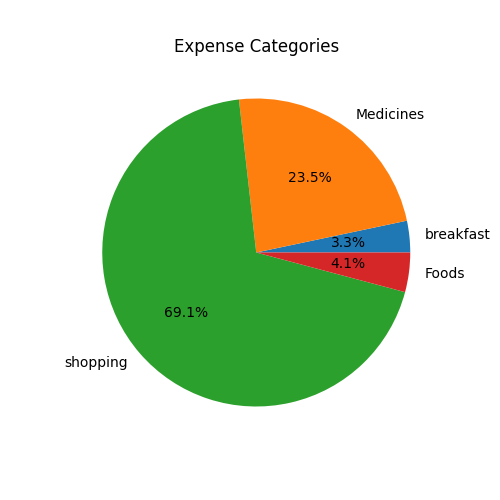
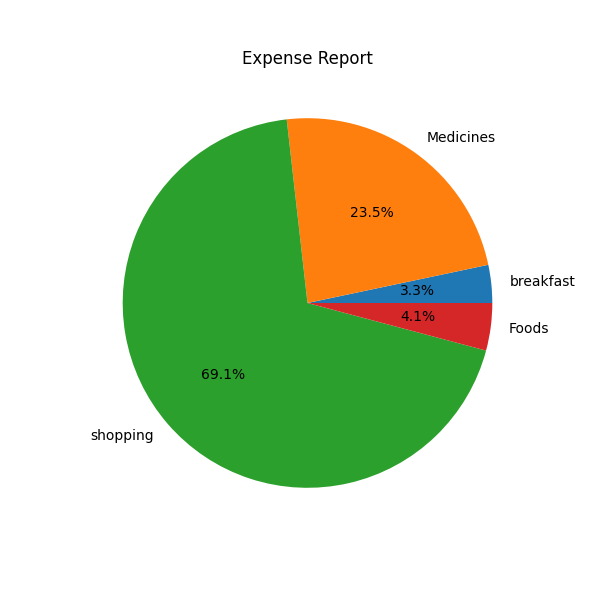
Fixed reports and export routes

diff --git a/templates/navbar.html b/templates/navbar.html
@@ -1,10 +1,51 @@
-<nav class="navbar navbar-expand-lg navbar-dark bg-dark">
+<nav class="navbar navbar-expand-lg navbar-dark bg-dark p-3">
 
     <div class="container-fluid">
 
         <a class="navbar-brand" href="/">
             Expense Tracker
         </a>
+
+        <form
+        class="d-flex flex-wrap gap-2"
+        action="{{ request.path }}"
+        method="GET"
+        >
+
+            <input
+            type="date"
+            name="date"
+            class="form-control"
+            >
+
+            <input
+            type="number"
+            name="month"
+            placeholder="Month"
+            class="form-control"
+            min="1"
+            max="12"
+            >
+
+            <input
+            type="number"
+            name="year"
+            placeholder="Year"
+            class="form-control"
+            >
+
+            <input
+            type="text"
+            name="category"
+            placeholder="Category"
+            class="form-control"
+            >
+
+            <button class="btn btn-light">
+                Filter
+            </button>
+
+        </form>
 
         <div>
 

diff --git a/templates/dashboard.html b/templates/dashboard.html
@@ -4,6 +4,48 @@
 
 <h1 class="mb-4">Expense Tracker</h1>
 
+<div class="row mb-4">
+
+    <div class="col-md-4">
+
+        <div class="card bg-primary text-white p-3">
+
+            <h4>Total Expenses</h4>
+
+            <h2>₹ {{ total }}</h2>
+
+        </div>
+
+    </div>
+
+    <div class="col-md-4">
+
+        <div class="card bg-success text-white p-3">
+
+            <h4>Total Transactions</h4>
+
+            <h2>{{ expenses|length }}</h2>
+
+        </div>
+
+    </div>
+
+    <div class="col-md-4">
+
+        <div class="card bg-danger text-white p-3">
+
+            <h4>Highest Expense</h4>
+
+            <h2>
+                ₹ {{ expenses|map(attribute='amount')|max }}
+            </h2>
+
+        </div>
+
+    </div>
+
+</div>
+
 <div class="card p-3 mb-4">
 
     <h3>Total Expense: ₹ {{ total }}</h3>
@@ -15,7 +57,7 @@
     <div class="mb-3">
 
         <input
-        type="text"
+        type="date"
         name="date"
         placeholder="Date"
         class="form-control"

diff --git a/static/dashboard.css b/static/dashboard.css
@@ -3,13 +3,9 @@ body {
     font-family: Arial, sans-serif;
 }
 
-/* Navbar */
-
 .navbar {
     box-shadow: 0px 2px 10px rgba(0,0,0,0.2);
 }
-
-/* Cards */
 
 .card {
     border: none;
@@ -17,41 +13,29 @@ body {
     box-shadow: 0px 4px 10px rgba(0,0,0,0.1);
 }
 
-/* Table */
-
 .table {
     background-color: white;
     border-radius: 10px;
     overflow: hidden;
 }
 
-/* Buttons */
-
 .btn {
     border-radius: 8px;
 }
-
-/* Form Inputs */
 
 .form-control {
     border-radius: 8px;
 }
 
-/* Headings */
-
 h1, h2, h3, h4 {
     font-weight: bold;
 }
-
-/* Dashboard Cards */
 
 .bg-primary,
 .bg-success,
 .bg-danger {
     border-radius: 15px;
 }
-
-/* Image */
 
 img {
     border-radius: 10px;

diff --git a/templates/base.html b/templates/base.html
@@ -14,7 +14,12 @@
     rel="stylesheet"
     href="{{ url_for('static', filename='dashboard.css') }}"
     >
-
+    
+    <link
+    rel="stylesheet"
+    href="{{ url_for('static', filename='dashboard.css') }}"
+    >
+    
 </head>
 
 <body>

diff --git a/templates/update_expense.html b/templates/update_expense.html
@@ -9,7 +9,7 @@
     <div class="mb-3">
 
         <input
-        type="text"
+        type="date"
         name="date"
         value="{{ expense.expense_date }}"
         class="form-control"

diff --git a/app.py b/app.py
@@ -129,11 +129,35 @@ def update_expense(id):
 
 
 # ================= REPORTS =================
-
 @app.route('/reports')
 def reports():
 
-    cursor.execute("SELECT category, amount FROM Expenses")
+    date = request.args.get('date')
+    month = request.args.get('month')
+    year = request.args.get('year')
+    category = request.args.get('category')
+
+    query = "SELECT category, amount FROM Expenses WHERE 1=1"
+
+    params = []
+
+    if date:
+        query += " AND expense_date = ?"
+        params.append(date)
+
+    if month:
+        query += " AND MONTH(expense_date) = ?"
+        params.append(int(month))
+
+    if year:
+        query += " AND YEAR(expense_date) = ?"
+        params.append(int(year))
+
+    if category:
+        query += " AND category LIKE ?"
+        params.append(f'%{category}%')
+
+    cursor.execute(query, params)
 
     expenses = cursor.fetchall()
 
@@ -141,26 +165,32 @@ def reports():
 
     for expense in expenses:
 
-        category = expense.category
-        amount = expense.amount
-
-        if category in categories:
-            categories[category] += amount
+        if expense.category in categories:
+            categories[expense.category] += expense.amount
         else:
-            categories[category] = amount
+            categories[expense.category] = expense.amount
 
     labels = list(categories.keys())
     amounts = list(categories.values())
 
-    plt.figure(figsize=(5,5))
+    plt.figure(figsize=(6,6))
 
-    plt.pie(amounts, labels=labels, autopct='%1.1f%%')
+    if amounts:
+        plt.pie(amounts, labels=labels, autopct='%1.1f%%')
 
-    plt.title("Expense Categories")
+    plt.title("Expense Report")
 
     plt.savefig('static/chart.png')
 
-    return render_template('reports.html')
+    return render_template(
+        'reports.html',
+        filters={
+            'date': date,
+            'month': month,
+            'year': year,
+            'category': category
+        }
+    )
 
 # ================= SEARCH =================
 
@@ -176,7 +206,6 @@ def search():
     """
 
     search_value = 'f'
-
 # ================= EXPORT CSV =================
 
 @app.route('/export')
@@ -191,6 +220,51 @@ def export_csv():
     df.to_csv(path, index=False)
 
     return send_file(path, as_attachment=True)
+
+# ================= FILTER =================
+
+@app.route('/filter')
+def filter_expenses():
+
+    date = request.args.get('date')
+    month = request.args.get('month')
+    year = request.args.get('year')
+    category = request.args.get('category')
+
+    query = "SELECT * FROM Expenses WHERE 1=1"
+
+    params = []
+
+    if date:
+        query += " AND expense_date = ?"
+        params.append(date)
+
+    if month:
+        query += " AND MONTH(expense_date) = ?"
+        params.append(int(month))
+
+    if year:
+        query += " AND YEAR(expense_date) = ?"
+        params.append(int(year))
+
+    if category:
+        query += " AND category LIKE ?"
+        params.append(f'%{category}%')
+
+    cursor.execute(query, params)
+
+    expenses = cursor.fetchall()
+
+    total = 0
+
+    for expense in expenses:
+        total += expense.amount
+
+    return render_template(
+        'dashboard.html',
+        expenses=expenses,
+        total=total
+    )
 
 # ================= RUN APP =================
 
